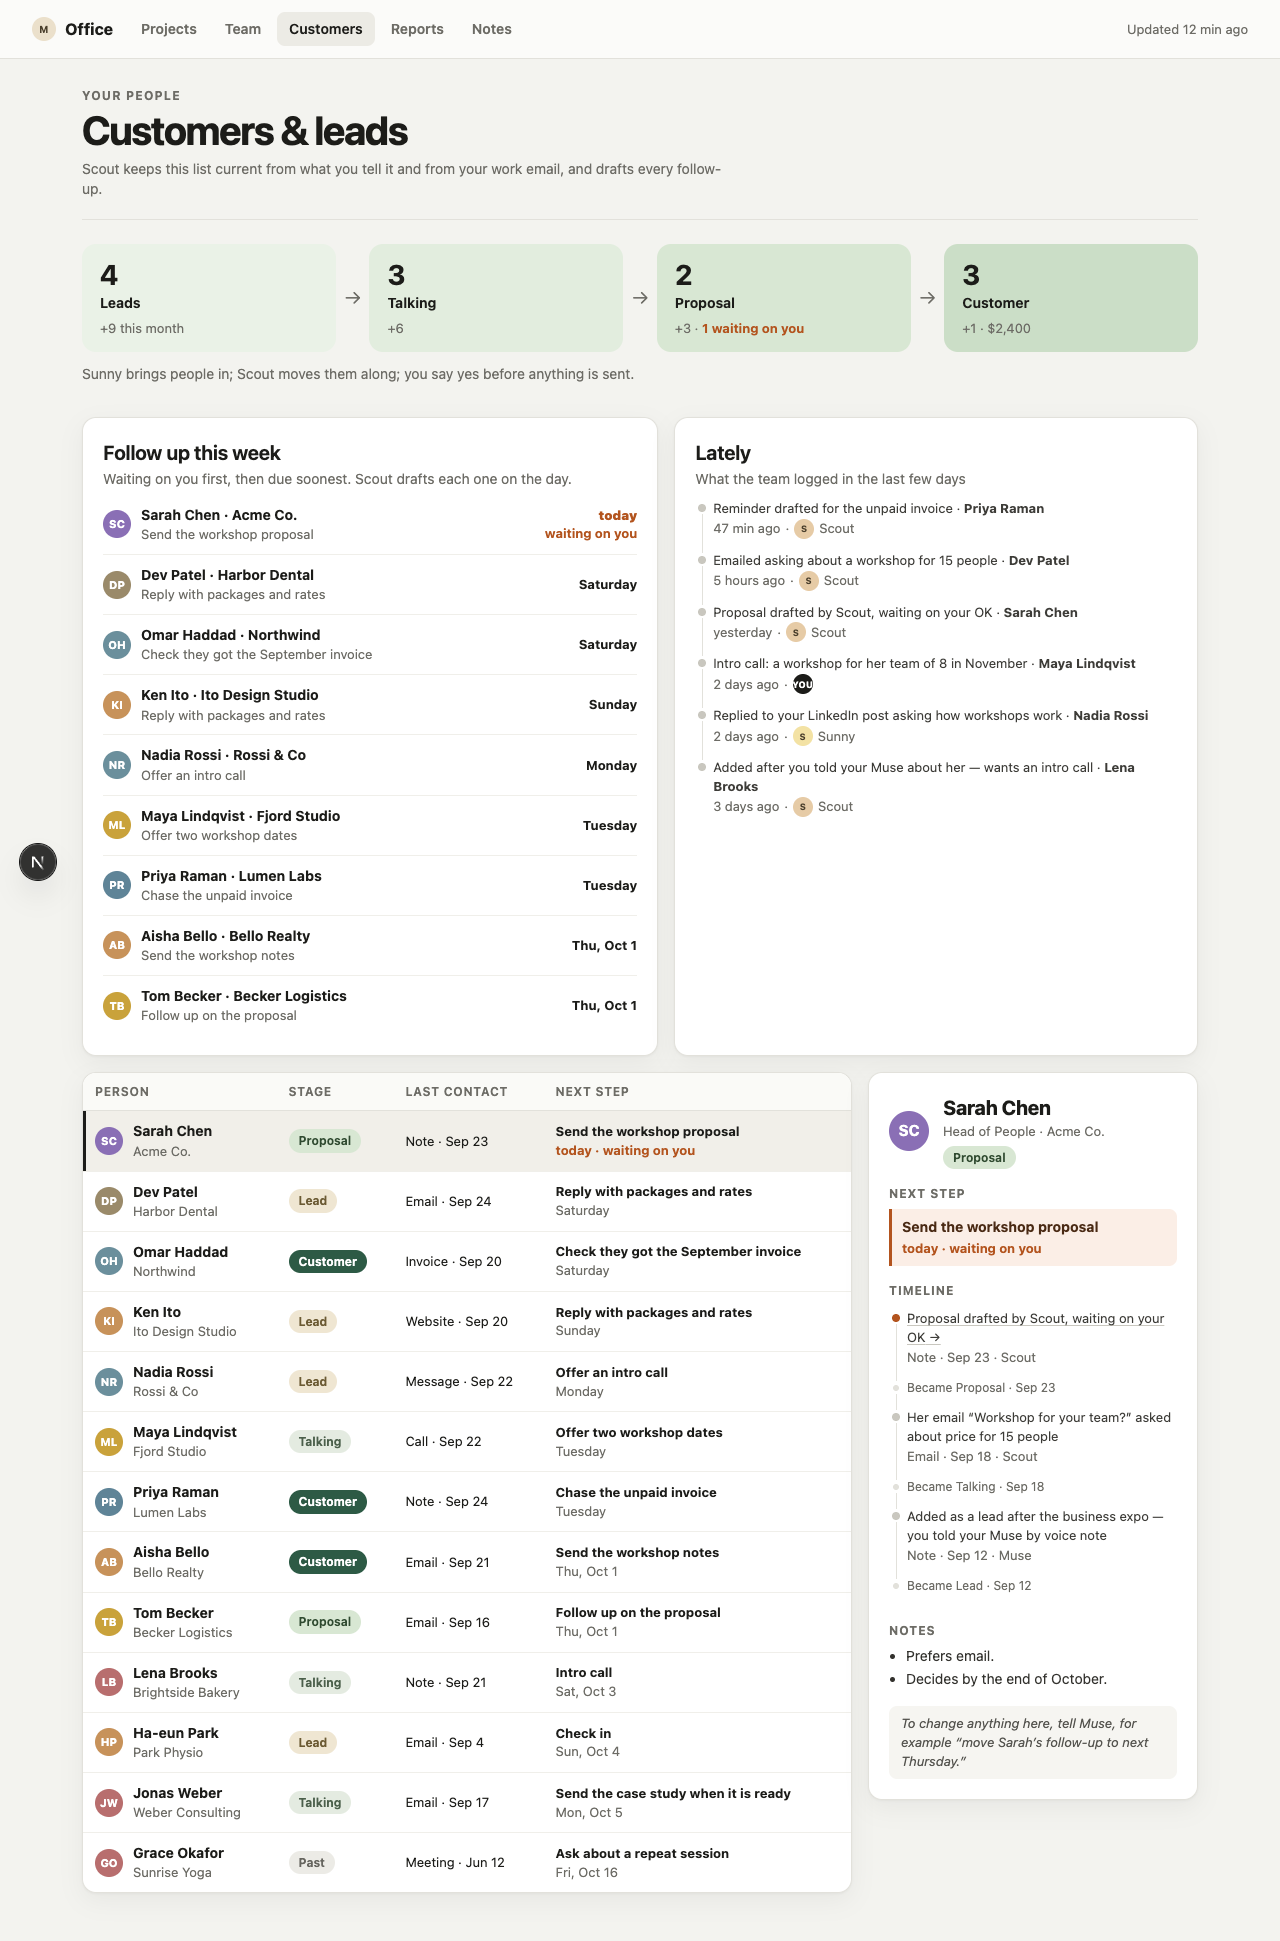
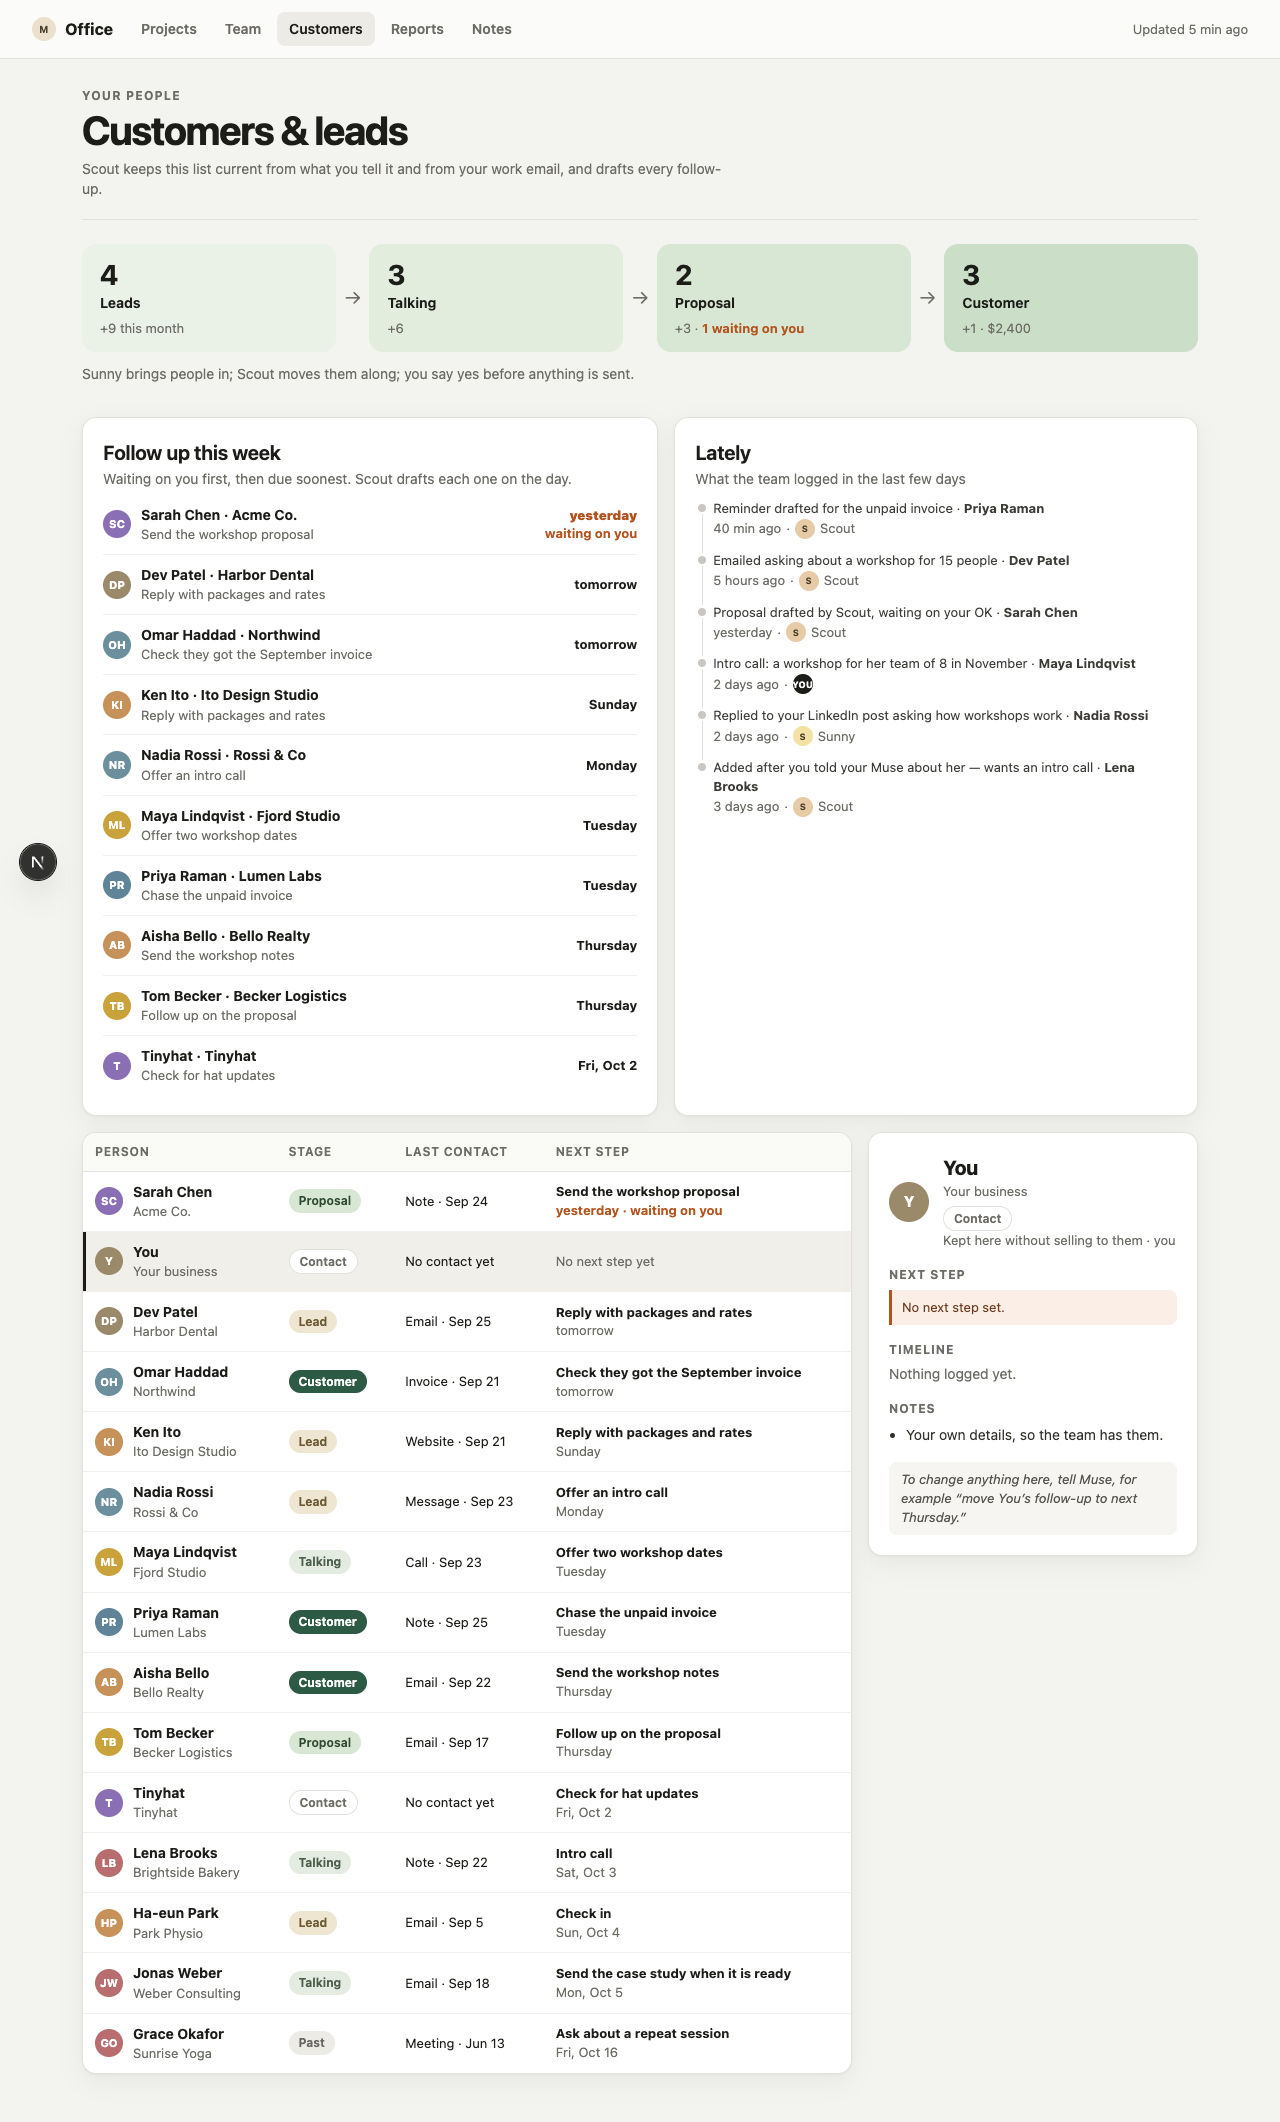
docs: the demo seed keeps the person and Tinyhat outside the funnel
The demo office now shows what the first-week set looks like on the
Customers page: "You" and "Tinyhat" as contacts kept outside the funnel
(a "Contact" pill, no stage history, counted nowhere). The Customers
capture is retaken from this head with the person's detail open.

diff --git a/src/lib/seed.ts b/src/lib/seed.ts
@@ -193,13 +193,13 @@ export function seed(db: Database.Database) {
 
     // ----------------------------------------------------------- customers
     const contact = db.prepare(
-      `INSERT INTO contacts (slug, name, company, title, stage, source, next_step, next_due, next_waiting_on_you, notes_json, value_cents, created_at, updated_at)
-       VALUES (@slug, @name, @company, @title, @stage, @source, @next_step, @next_due, @next_waiting_on_you, @notes, @value_cents, @created_at, @updated_at)`,
+      `INSERT INTO contacts (slug, name, company, title, stage, source, next_step, next_due, next_waiting_on_you, notes_json, value_cents, in_funnel, created_at, updated_at)
+       VALUES (@slug, @name, @company, @title, @stage, @source, @next_step, @next_due, @next_waiting_on_you, @notes, @value_cents, @in_funnel, @created_at, @updated_at)`,
     );
     const touch = db.prepare(`INSERT INTO touches (contact, channel, summary, by, task, happened_at) VALUES (?, ?, ?, ?, ?, ?)`);
     const stage = db.prepare(`INSERT INTO stage_changes (contact, stage, changed_at) VALUES (?, ?, ?)`);
     const people: Array<{
-      slug: string; name: string; company: string; title?: string; stage: string; source?: string; next_step?: string; next_due?: string; waiting?: number; notes?: string[]; value?: number; created: number;
+      slug: string; name: string; company: string; title?: string; stage: string; source?: string; next_step?: string; next_due?: string; waiting?: number; notes?: string[]; value?: number; in_funnel?: number; created: number;
       stages: Array<[string, number]>; touches: Array<[channel: string, summary: string, msAgo: number, by?: string, task?: string]>;
     }> = [
       { slug: "sarah-chen", name: "Sarah Chen", company: "Acme Co.", title: "Head of People", stage: "proposal", source: "met at a business expo", next_step: "Send the workshop proposal", next_due: day(-1), waiting: 1, notes: ["Prefers email.", "Decides by the end of October."], created: 12 * D,
@@ -226,12 +226,15 @@ export function seed(db: Database.Database) {
         stages: [["lead", 14 * D], ["talking", 7 * D]], touches: [["email", "Asked for an example of past work", 7 * D, "scout"]] },
       { slug: "tom-becker", name: "Tom Becker", company: "Becker Logistics", title: "COO", stage: "proposal", source: "referral", next_step: "Follow up on the proposal", next_due: day(6), value: 720000, created: 30 * D,
         stages: [["lead", 30 * D], ["talking", 20 * D], ["proposal", 8 * D]], touches: [["email", "Proposal sent: three workshops, $7,200", 8 * D, "scout"], ["meeting", "Discovery call", 20 * D, "you"]] },
+      // Kept on the page without being sold to: no stage shown, counted nowhere.
+      { slug: "you", name: "You", company: "Your business", stage: "past", source: "you", in_funnel: 0, notes: ["Your own details, so the team has them."], created: 30 * D, stages: [], touches: [] },
+      { slug: "tinyhat", name: "Tinyhat", company: "Tinyhat", stage: "past", source: "made this hat", in_funnel: 0, next_step: "Check for hat updates", next_due: day(7), notes: ["https://tinyhat.ai", "support@tinyhat.ai"], created: 30 * D, stages: [], touches: [] },
       { slug: "grace-okafor", name: "Grace Okafor", company: "Sunrise Yoga", title: "Owner", stage: "past", source: "referral", next_step: "Ask about a repeat session", next_due: day(21), value: 120000, created: 150 * D,
         stages: [["lead", 150 * D], ["customer", 120 * D], ["past", 60 * D]], touches: [["meeting", "Half-day workshop, June", 104 * D, "you"]] },
     ];
     for (const c of people) {
-      contact.run({ slug: c.slug, name: c.name, company: c.company, title: c.title ?? null, stage: c.stage, source: c.source ?? null, next_step: c.next_step ?? null, next_due: c.next_due ?? null, next_waiting_on_you: c.waiting ?? 0,
-        notes: JSON.stringify(c.notes ?? []), value_cents: c.value ?? null, created_at: t(c.created), updated_at: t(Math.min(...c.touches.map((x) => x[2]), c.created)) });
+      contact.run({ slug: c.slug, name: c.name, company: c.company, title: c.title ?? null, stage: c.stage, source: c.source ?? null, next_step: c.next_step ?? null, next_due: c.next_due ?? null, next_waiting_on_you: c.waiting ?? 0, in_funnel: c.in_funnel ?? 1,
+        notes: JSON.stringify(c.notes ?? []), value_cents: c.value ?? null, created_at: t(c.created), updated_at: t(c.touches.length ? Math.min(...c.touches.map((x) => x[2]), c.created) : c.created) });
       for (const [s, msAgo] of c.stages) stage.run(c.slug, s, t(msAgo));
       for (const [channel, summary, msAgo, by, taskId] of c.touches) touch.run(c.slug, channel, summary, by ?? null, taskId ?? null, t(msAgo));
     }

diff --git a/README.md b/README.md
@@ -61,7 +61,7 @@ A task's page, the one place the person can write: the pinned question with a on
 
 ![A task waiting on a money question](docs/screenshots/task-waiting-money.png)
 
-Customers (a small funnel, this week's follow-ups, the people table) and Reports (results, not activity):
+Customers (a small funnel, this week's follow-ups, the people table; the person and the hat's maker kept as contacts outside the funnel) and Reports (results, not activity):
 
 ![Customers](docs/screenshots/customers.png)
 
